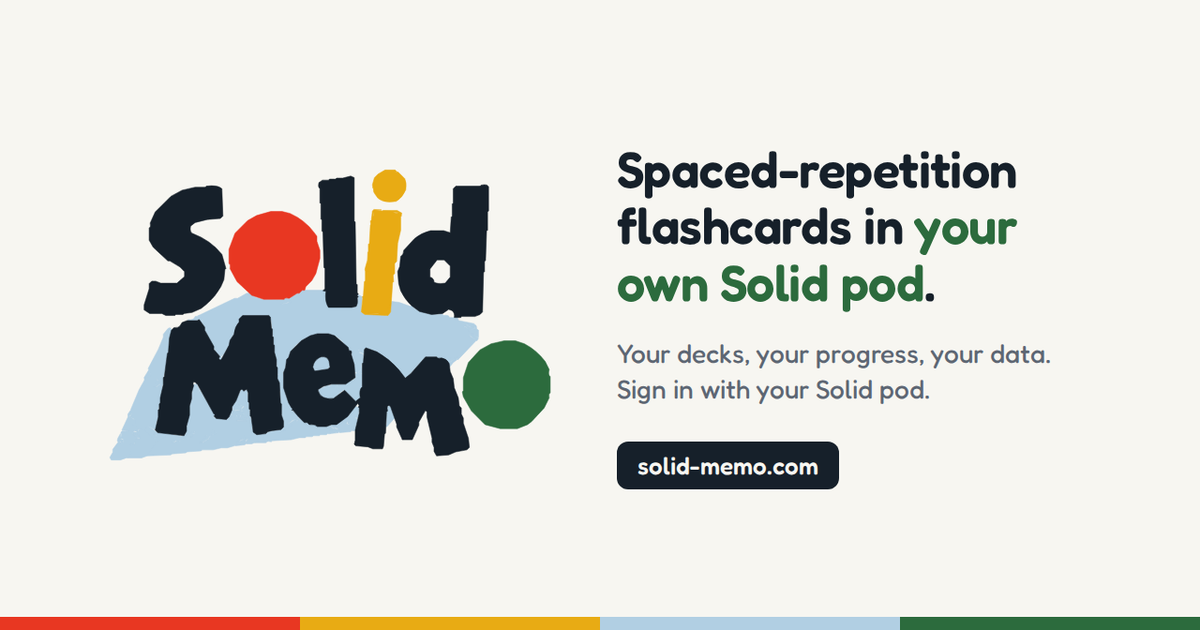
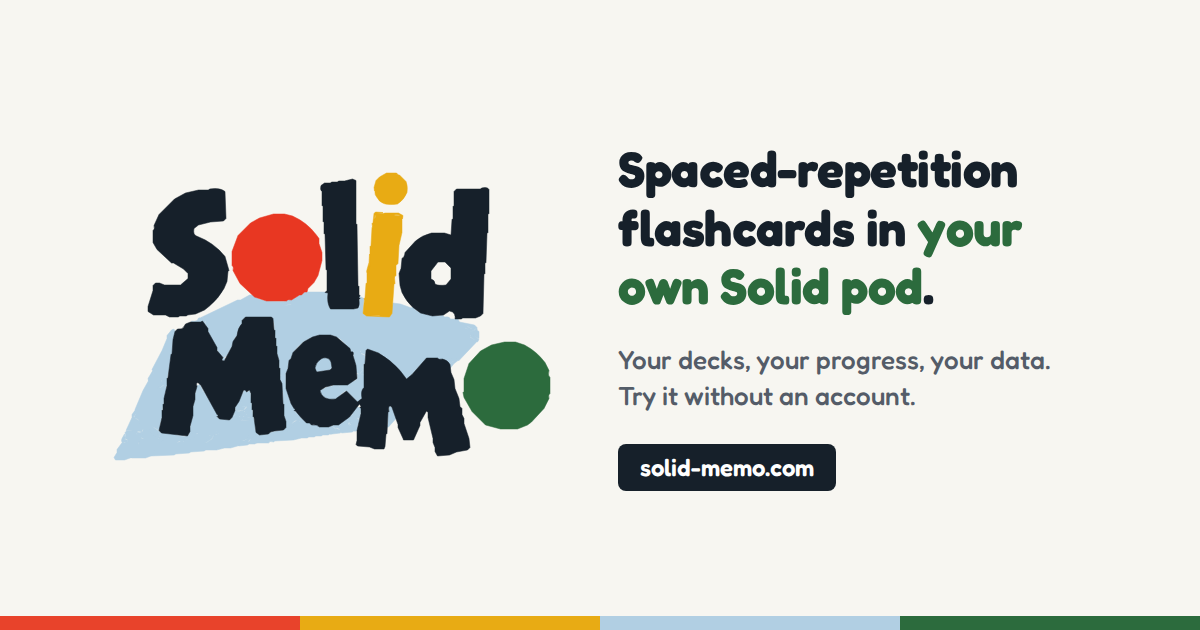
feat(web): show the app in screenshots, and invite a try in its preview
The only picture of the app was its link preview, which showed the
wordmark and said "Sign in with your Solid pod": nothing of the app
itself, and against guest mode, where anyone tries it without an
account. Five screenshots (a study card, the library, a course
chapter, the statistics and the Studio), taken as a guest in English
at 1280x900, now stand in the README, in publiccode.yml's screenshots
and on the About page, whose test checks each is there and described.

The preview keeps its name and design, so nothing that names it
changes, but says "Try it without an account" instead, as do its alt
text and the site's og:description. The study card shows a painting
from the Famous paintings deck: the deck is CC0, and the picture a
public-domain reproduction.

Closes: #142

diff --git a/apps/web/public/about/index.html b/apps/web/public/about/index.html
@@ -32,7 +32,7 @@
   <meta property="og:image" content="https://solid-memo.com/social-preview.png" />
   <meta property="og:image:width" content="1200" />
   <meta property="og:image:height" content="630" />
-  <meta property="og:image:alt" content="The Solid Memo wordmark beside &quot;Spaced-repetition flashcards in your own Solid pod.&quot;" />
+  <meta property="og:image:alt" content="The Solid Memo wordmark beside &quot;Spaced-repetition flashcards in your own Solid pod. Your decks, your progress, your data. Try it without an account.&quot;" />
   <meta property="og:locale" content="en" />
   <meta name="twitter:card" content="summary_large_image" />
   <!-- The colors are the app's own (packages/ui/src/style.css). With no
@@ -166,6 +166,33 @@
       margin: 0.25rem 0;
     }
 
+    .screenshots {
+      display: grid;
+      grid-template-columns: repeat(auto-fit, minmax(16rem, 1fr));
+      gap: 1rem;
+      margin: 0 0 1rem;
+      padding: 0;
+      list-style: none;
+    }
+
+    figure {
+      margin: 0;
+    }
+
+    figure img {
+      display: block;
+      width: 100%;
+      height: auto;
+      border: 1px solid var(--border);
+      border-radius: 0.5rem;
+    }
+
+    figcaption {
+      margin-top: 0.35rem;
+      color: var(--text-muted);
+      font-size: 0.9375rem;
+    }
+
     footer {
       padding-top: 0.5rem;
       padding-bottom: 2.5rem;
@@ -204,6 +231,7 @@
       </ul>
       <nav aria-label="On this page">
         <ul>
+          <li><a href="#screenshots">Screenshots</a></li>
           <li><a href="#learners">For learners</a></li>
           <li><a href="#authors">For deck authors</a></li>
           <li><a href="#technologists">For technologists</a></li>
@@ -211,6 +239,48 @@
         </ul>
       </nav>
     </header>
+
+    <section id="screenshots" aria-labelledby="screenshots-title">
+      <h2 id="screenshots-title">Screenshots</h2>
+      <p>The app in English, as a guest tries it, with no account.</p>
+      <ul class="screenshots">
+        <li>
+          <figure>
+            <img src="../screenshots/study.png" width="1280" height="900"
+              alt="A study session of the deck Famous paintings: a painting on the card's front, its title, painter and date revealed below it, and buttons from 0 to 5 to grade the answer." />
+            <figcaption>Studying a card</figcaption>
+          </figure>
+        </li>
+        <li>
+          <figure>
+            <img src="../screenshots/library.png" width="1280" height="900"
+              alt="The deck library: a search field over a list of ready-made decks, each with its number of cards and a Preview button." />
+            <figcaption>The deck library</figcaption>
+          </figure>
+        </li>
+        <li>
+          <figure>
+            <img src="../screenshots/course-chapter.png" width="1280" height="900"
+              alt="The first chapter of the course Getting started with Solid Memo: step 1 of 3, a part of its theory, and a Continue button." />
+            <figcaption>A course's chapter</figcaption>
+          </figure>
+        </li>
+        <li>
+          <figure>
+            <img src="../screenshots/statistics.png" width="1280" height="900"
+              alt="The statistics: answers, study days, cards studied and streaks, over an activity calendar of the last 52 weeks." />
+            <figcaption>Study statistics</figcaption>
+          </figure>
+        </li>
+        <li>
+          <figure>
+            <img src="../screenshots/studio.png" width="1280" height="900"
+              alt="Solid Memo Studio: a sidebar of sections, decks and drafts beside a table of the instance's decks." />
+            <figcaption>Solid Memo Studio, for deck authors</figcaption>
+          </figure>
+        </li>
+      </ul>
+    </section>
 
     <section id="learners" aria-labelledby="learners-title">
       <h2 id="learners-title">For learners</h2>

diff --git a/apps/web/src/aboutPage.test.ts b/apps/web/src/aboutPage.test.ts
@@ -103,6 +103,28 @@ describe("the About page", () => {
     expect(site).toContain(`<meta property="og:image:alt" content="${meta("og:image:alt")}" />`);
   });
 
+  it("shows the app in screenshots, each one of the site's files, described, at the size it says", () => {
+    const images = [...html.matchAll(/<img\b([^>]*)>/g)].map(([, attributes]) => {
+      const attribute = (name: string) =>
+        new RegExp(`\\b${name}="([^"]*)"`).exec(attributes!)?.[1] ?? null;
+      return {
+        src: attribute("src")!,
+        alt: attribute("alt"),
+        size: [Number(attribute("width")), Number(attribute("height"))],
+      };
+    });
+    expect(images.map(({ src }) => src)).toEqual(
+      ["study", "library", "course-chapter", "statistics", "studio"].map(
+        (name) => `../screenshots/${name}.png`,
+      ),
+    );
+    for (const { src, alt, size } of images) {
+      expect(alt).toMatch(/\S/);
+      const png = readFileSync(served(src));
+      expect([png.readUInt32BE(16), png.readUInt32BE(20)]).toEqual(size);
+    }
+  });
+
   it("speaks to learners, deck authors, technologists and decision makers", () => {
     for (const id of ["learners", "authors", "technologists", "decision-makers"]) {
       expect(html).toContain(`<section id="${id}"`);

diff --git a/apps/web/index.html b/apps/web/index.html
@@ -51,12 +51,12 @@
   <meta property="og:type" content="website" />
   <meta property="og:site_name" content="%APP_NAME%" />
   <meta property="og:title" content="%APP_NAME%" />
-  <meta property="og:description" content="Spaced-repetition flashcards that live in your own Solid pod." />
+  <meta property="og:description" content="Spaced-repetition flashcards that live in your own Solid pod. Try it without an account." />
   <meta property="og:url" content="https://solid-memo.com/" />
   <meta property="og:image" content="https://solid-memo.com/social-preview.png" />
   <meta property="og:image:width" content="1200" />
   <meta property="og:image:height" content="630" />
-  <meta property="og:image:alt" content="The Solid Memo wordmark beside &quot;Spaced-repetition flashcards in your own Solid pod.&quot;" />
+  <meta property="og:image:alt" content="The Solid Memo wordmark beside &quot;Spaced-repetition flashcards in your own Solid pod. Your decks, your progress, your data. Try it without an account.&quot;" />
   <meta property="og:locale" content="en" />
   <meta name="twitter:card" content="summary_large_image" />
   <!-- The app, and the source code it is built from: codeRepository is a

diff --git a/docs/reuse.md b/docs/reuse.md
@@ -107,6 +107,7 @@ in your copy:
 | [apps/web/index.html](../apps/web/index.html) | The site's address, as absolute URLs on <https://solid-memo.com/>: the canonical link, `og:url`, `og:image` and the JSON-LD `url`, `@id` and `image`; and the description. Its links to the repository follow `VITE_REPO_URL` ([configuration.md](configuration.md#vite_repo_url)). |
 | [apps/web/public/about/index.html](../apps/web/public/about/index.html) | What Solid Memo is, under its name, with its address on <https://solid-memo.com/> and links to this repository, which `VITE_REPO_URL` does not reach. Rewrite it for your copy. |
 | [apps/web/public/social-preview.png](../apps/web/public/social-preview.png), the favicons | Solid Memo's wordmark and logo. |
+| [apps/web/public/screenshots/](../apps/web/public/screenshots/) | The app under Solid Memo's name, at <https://solid-memo.com/>, which the README, `publiccode.yml` and the About page show. Take your own, or leave them out. |
 | [CNAME](../CNAME) | This site's domain on GitHub Pages ([deployment.md](deployment.md#custom-domain-optional)), which the build writes `sitemap.xml` and `robots.txt`'s `Sitemap:` line on. Write your own domain into it, or delete it: without it, the build writes no sitemap. |
 | [publiccode.yml](../publiccode.yml) | What Solid Memo is, for software catalogs: this repository, the site's address on <https://solid-memo.com/> and its docs there (`documentation`). Rewrite it for your copy; a release writes its version and date into it ([releasing.md](releasing.md#what-a-release-does)). |
 | [README.md](../README.md) | This project's own description and links. |

diff --git a/README.md b/README.md
@@ -48,6 +48,14 @@ for, and what it is not: [docs/objectives.md](docs/objectives.md). The
 same, for learners, authors, technologists and decision makers:
 [solid-memo.com/about](https://solid-memo.com/about/).
 
+| Studying a card | The deck library |
+| --- | --- |
+| ![A study session of the deck Famous paintings: a painting on the card's front, its title, painter and date revealed below it, and buttons from 0 to 5 to grade the answer.](apps/web/public/screenshots/study.png) | ![The deck library: a search field over a list of ready-made decks, each with its number of cards and a Preview button.](apps/web/public/screenshots/library.png) |
+| **A course's chapter** | **Study statistics** |
+| ![The first chapter of the course Getting started with Solid Memo: step 1 of 3, a part of its theory, and a Continue button.](apps/web/public/screenshots/course-chapter.png) | ![The statistics: answers, study days, cards studied and streaks, over an activity calendar of the last 52 weeks.](apps/web/public/screenshots/statistics.png) |
+| **Solid Memo Studio, for deck authors** | |
+| ![Solid Memo Studio: a sidebar of sections, decks and drafts beside a table of the instance's decks.](apps/web/public/screenshots/studio.png) | |
+
 To see what the app does without signing in, open the report of its
 [user journeys](https://solid-memo.com/journeys/): tests that use the
 app in a browser as a person would, step by step, from CI's run on the

diff --git a/docs/configuration.md b/docs/configuration.md
@@ -107,7 +107,9 @@ The name does not reach:
   [appError.ts](../packages/domain/src/appError.ts);
 - the page's description, link preview image
   ([social-preview.png](../apps/web/public/social-preview.png)) and its
-  alt text, the favicons and the logo;
+  alt text, the screenshots
+  ([screenshots/](../apps/web/public/screenshots/)), the favicons and
+  the logo;
 - the docs and the deck library.
 
 A fork that renames the app further edits the message files
